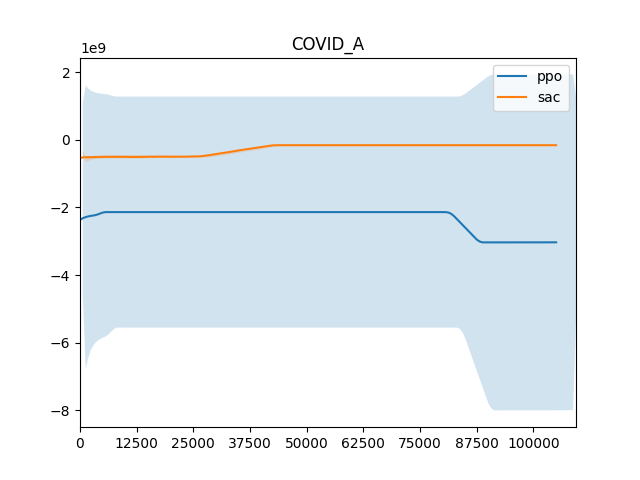
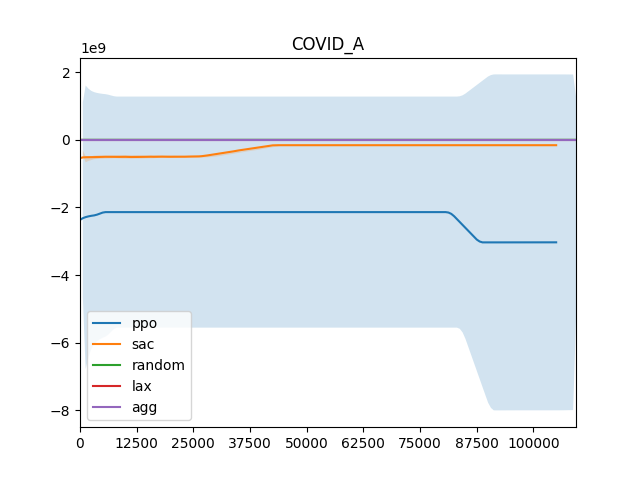
added final plots for covid scenarios

diff --git a/plots.py b/plots.py
@@ -78,8 +78,8 @@ def merge_baselines(logs):
     print(val_means.shape) 
     print(val_stds.shape) 
 
-    # return val_means, val_stds, np.mean(val_means[MEAN_CUT:])/1e6, np.mean(val_stds[MEAN_CUT:])/1e6 
-    return val_means, val_stds, np.mean(val_means), np.mean(val_stds) 
+    return val_means, val_stds, np.mean(val_means[MEAN_CUT:])/1e6, np.mean(val_stds[MEAN_CUT:])/1e6 
+    # return val_means, val_stds, np.mean(val_means), np.mean(val_stds) 
 
 
 def plot(log_dir, only_baselines=False): 
@@ -123,7 +123,10 @@ def plot(log_dir, only_baselines=False):
         plt.title(scenario)
         plt.legend() 
         # plt.show() 
-        plt.savefig('plots/'+scenario+'_only_baselines.png') 
+        if only_baselines:
+            plt.savefig('plots/'+scenario+'_only_baselines.png') 
+        else: 
+            plt.savefig('plots/'+scenario+'.png') 
         plt.close() 
         # break 
         
